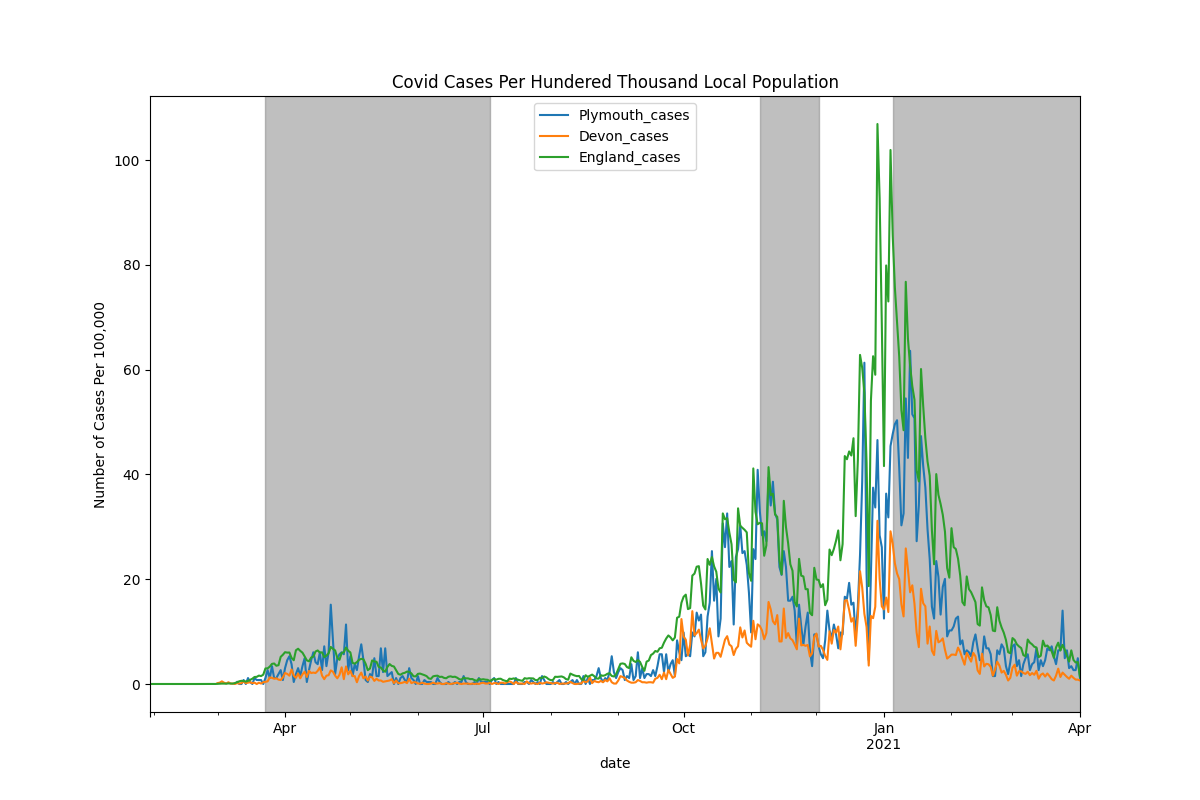
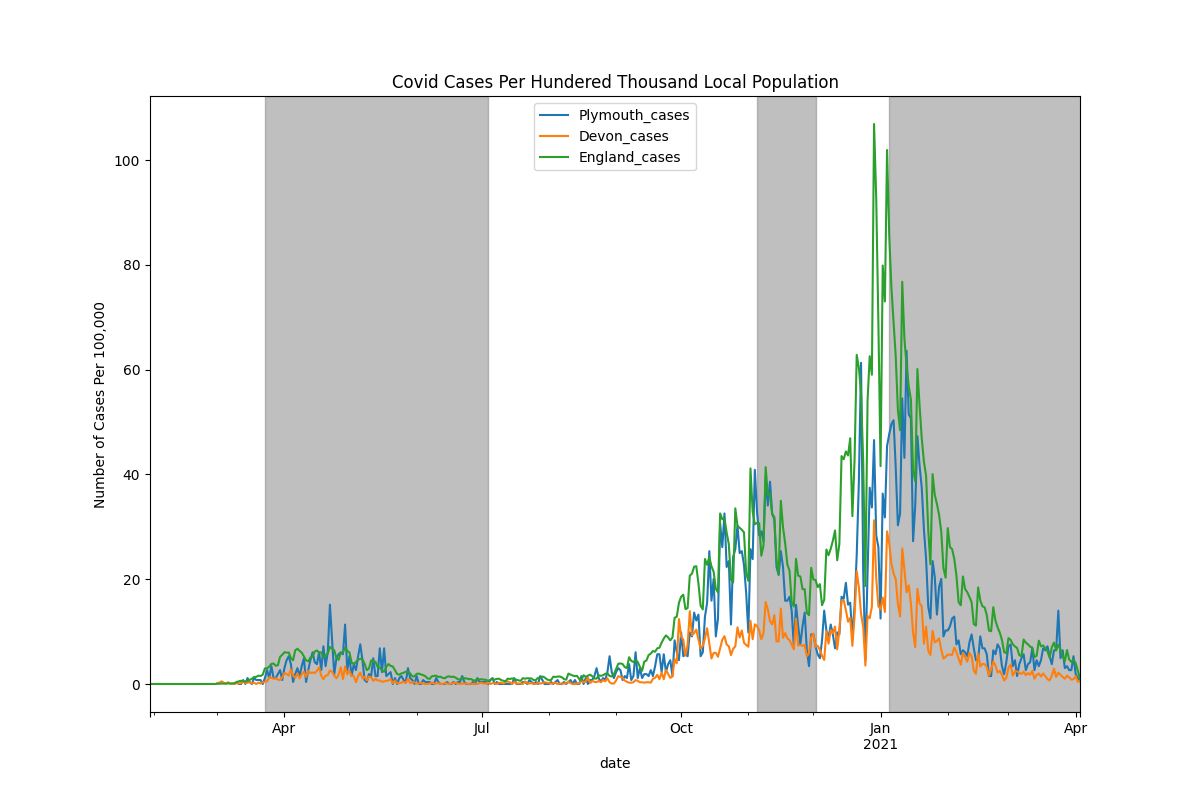
update-data

diff --git a/index.md b/index.md
@@ -7,4 +7,4 @@ Grey sections are used to identify national lockdowns, of various strengths.
 ![Covid Rates Per 100000](images/plymouth_covid_graph_pht.png "Plymouth Covid Graph Per 100000 ")
 
 
-Last updated on: 02 April 2021
+Last updated on: 05 April 2021
